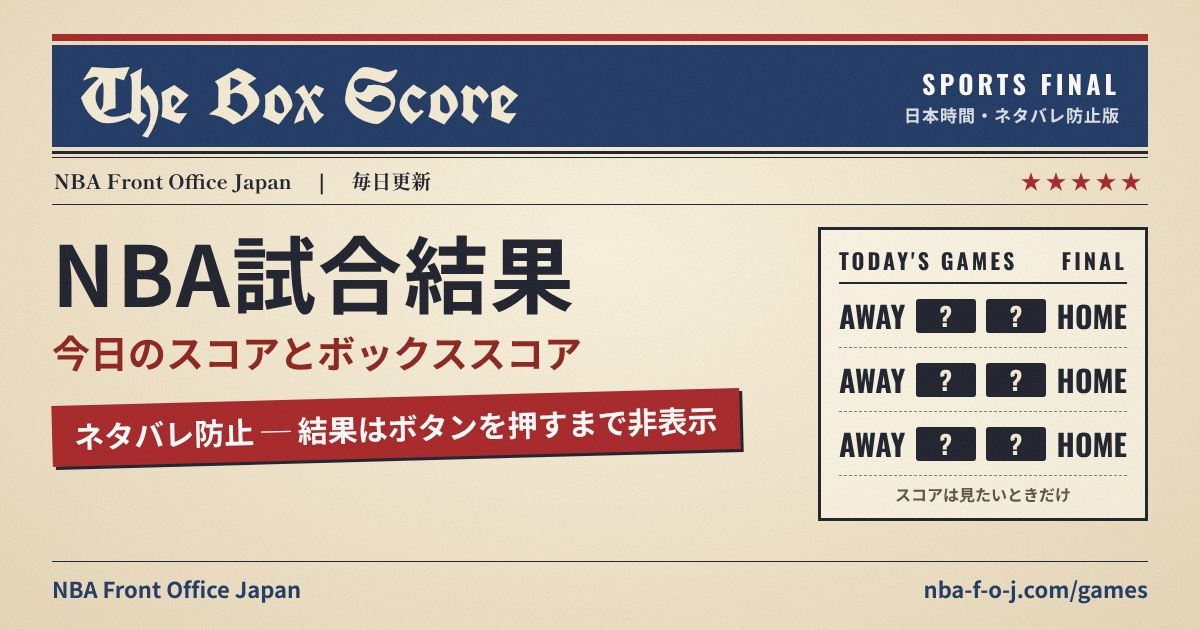
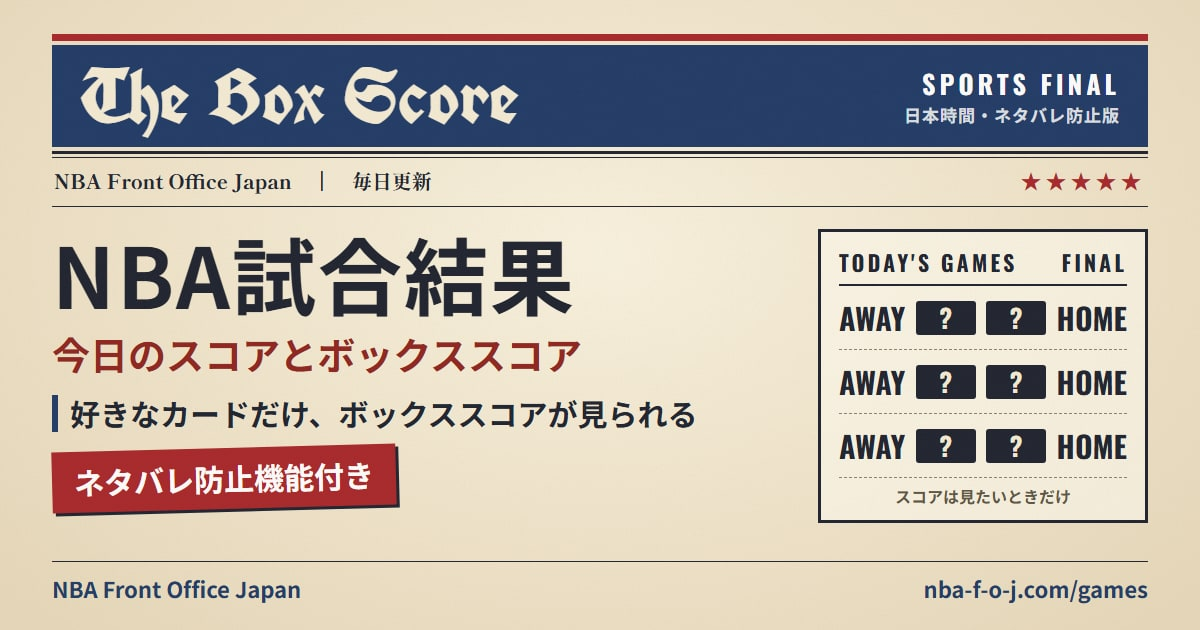
/games: SNS共有画像の文言を「好きなカードだけ、ボックススコアが見られる」「ネタバレ防止機能付き」に変更(画像URLを ?v=2 に)

diff --git a/app/games/page.tsx b/app/games/page.tsx
@@ -22,7 +22,7 @@ import {
 
 // 画像を作り直したら v を変える(SNS側のキャッシュを更新するため)
 const GAMES_SHARE_IMAGE = {
-  url: "/games/og-games.jpg?v=1",
+  url: "/games/og-games.jpg?v=2",
   width: 1200,
   height: 630,
   type: "image/jpeg",
